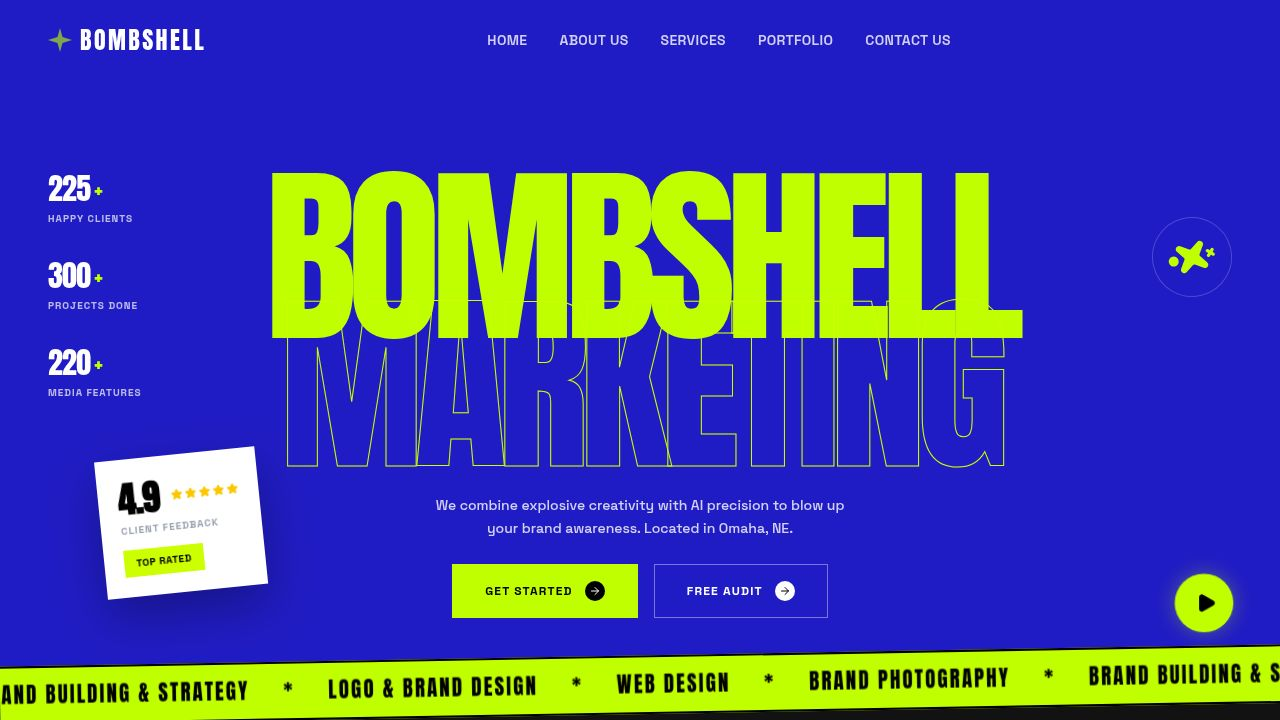
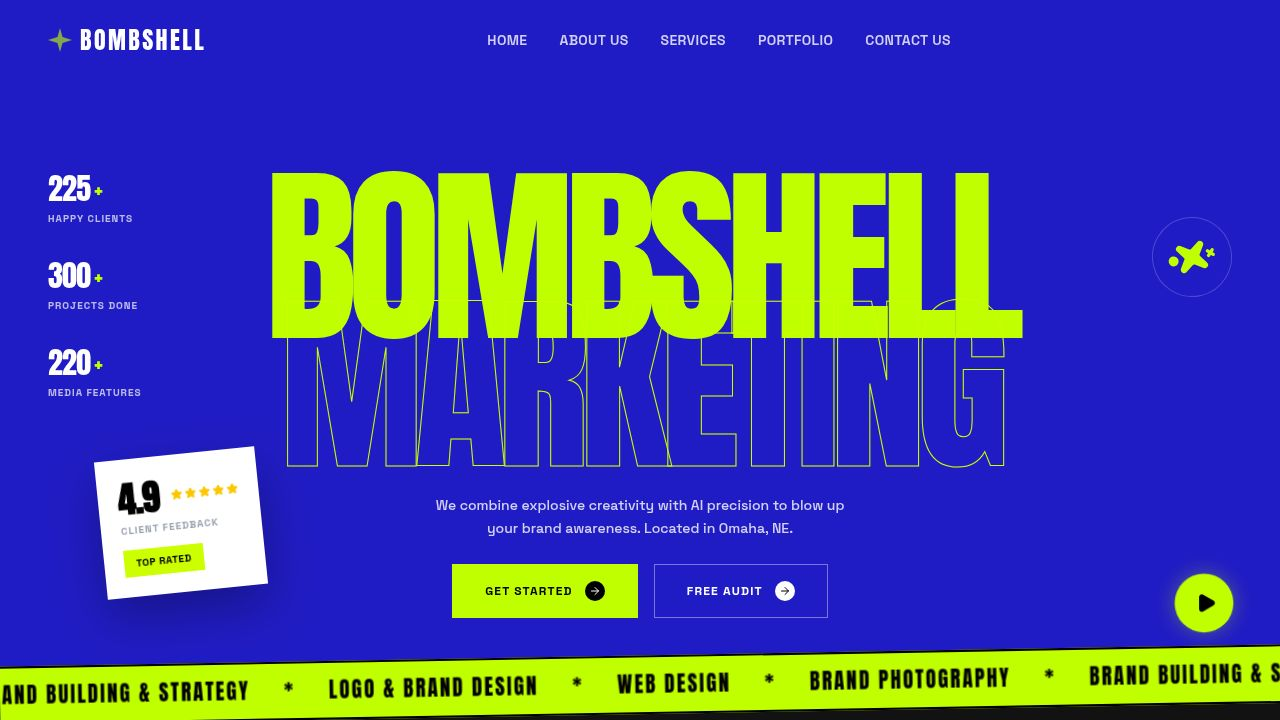
Add a dedicated services page and update navigation links
Create a new `/services` route and page component, and update the navigation to link to the new page.

Replit-Commit-Author: Agent
Replit-Commit-Session-Id: b97b545a-2953-4744-8807-01dbd9bc97d5
Replit-Commit-Checkpoint-Type: full_checkpoint
Replit-Commit-Event-Id: a2816f02-5160-42d0-ae93-49eef49e8268
Replit-Commit-Screenshot-Url: https://storage.googleapis.com/screenshot-production-us-central1/cacd662f-1fbf-427a-8dde-dff8a0747f32/b97b545a-2953-4744-8807-01dbd9bc97d5/KA6MkcP
Replit-Helium-Checkpoint-Created: true

diff --git a/client/src/pages/Services.tsx b/client/src/pages/Services.tsx
@@ -1,0 +1,182 @@
+import { Link } from "wouter";
+import { ArrowUpRight, Palette, Globe, Target, Camera, Sparkles, Layers } from "lucide-react";
+import { Navigation } from "@/components/Navigation";
+import { Footer } from "@/components/Footer";
+
+const services = [
+  {
+    icon: Palette,
+    title: "Brand Building & Strategy",
+    description: "We forge identities that hit like a shockwave. Strategic positioning meets visual dominance to create memorable brand experiences.",
+    link: "https://bombshellaimarketing.com/contact",
+    highlight: false
+  },
+  {
+    icon: Globe,
+    title: "Web Design & Development",
+    description: "Websites that don't just function—they perform. High-octane user experiences built with modern technology and stunning visuals.",
+    link: "https://bombshellaimarketing.com/contact",
+    highlight: true
+  },
+  {
+    icon: Target,
+    title: "Digital Marketing Strategy",
+    description: "AI-powered marketing strategies that target your ideal audience with precision. Data-driven campaigns that convert.",
+    link: "https://bombshellaimarketing.com/contact",
+    highlight: false
+  },
+  {
+    icon: Layers,
+    title: "Logo & Brand Design",
+    description: "Visual identities that sear into memory. Logos, systems, and guidelines that command attention and build recognition.",
+    link: "https://bombshellaimarketing.com/contact",
+    highlight: false
+  },
+  {
+    icon: Sparkles,
+    title: "Content Creation Solutions",
+    description: "Compelling content that tells your story. From copywriting to social media, we create content that engages and converts.",
+    link: "https://bombshellaimarketing.com/contact",
+    highlight: true
+  },
+  {
+    icon: Camera,
+    title: "Brand Photography",
+    description: "Capture the raw energy of your brand. Professional shots that tell your story instantly and elevate your visual presence.",
+    link: "https://bombshellaimarketing.com/contact",
+    highlight: false
+  }
+];
+
+export default function ServicesPage() {
+  return (
+    <div className="min-h-screen bg-[#f0f0f0]">
+      <Navigation />
+      
+      {/* Hero Section */}
+      <section className="bg-[#201cc5] pt-32 pb-20 relative overflow-hidden">
+        <div className="absolute inset-0 opacity-20 pointer-events-none mix-blend-overlay" 
+             style={{ backgroundImage: 'url("https://www.transparenttextures.com/patterns/noise.png")' }}>
+        </div>
+        <div className="container mx-auto px-4 text-center relative z-10">
+          <h1 className="text-5xl md:text-7xl font-display text-white uppercase mb-6">
+            Solutions You Need
+          </h1>
+          <div className="flex items-center justify-center gap-2 text-white/70 text-sm uppercase tracking-widest">
+            <Link href="/" className="hover:text-primary transition-colors">Home</Link>
+            <span>/</span>
+            <span className="text-white">Our Services</span>
+          </div>
+        </div>
+      </section>
+
+      {/* Stats Section */}
+      <section className="bg-[#e8e8e8] py-20 relative">
+        <div className="absolute inset-0 opacity-30 pointer-events-none mix-blend-multiply" 
+             style={{ backgroundImage: 'url("https://www.transparenttextures.com/patterns/noise.png")' }}>
+        </div>
+        <div className="container mx-auto px-4 relative z-10">
+          <div className="flex flex-col md:flex-row justify-between items-start md:items-center gap-8 mb-16">
+            <div>
+              <div className="flex items-center gap-2 mb-4">
+                <span className="text-primary text-xl">✦</span>
+                <span className="text-black/60 uppercase tracking-widest text-xs font-bold">Simplify Your Goals</span>
+              </div>
+              <h2 className="text-4xl md:text-6xl font-display text-black uppercase leading-[0.9]">
+                Empowering Brands<br />With Creativity
+              </h2>
+            </div>
+            
+            <div className="flex gap-12">
+              <div className="text-center">
+                <div className="flex items-center gap-1">
+                  <Sparkles className="w-6 h-6 text-primary fill-primary" />
+                  <span className="text-5xl font-display text-black">300</span>
+                  <span className="text-primary text-3xl font-display">+</span>
+                </div>
+                <p className="text-[10px] font-bold uppercase tracking-widest text-black/50 mt-2">Successful Projects</p>
+              </div>
+              <div className="text-center">
+                <div className="flex items-center gap-1">
+                  <Sparkles className="w-6 h-6 text-primary fill-primary" />
+                  <span className="text-5xl font-display text-black">200</span>
+                  <span className="text-primary text-3xl font-display">+</span>
+                </div>
+                <p className="text-[10px] font-bold uppercase tracking-widest text-black/50 mt-2">Brands Grow Globally</p>
+              </div>
+            </div>
+          </div>
+
+          {/* Services Grid */}
+          <div className="grid grid-cols-1 md:grid-cols-2 lg:grid-cols-3 gap-6">
+            {services.map((service, index) => {
+              const IconComponent = service.icon;
+              return (
+                <a 
+                  key={index}
+                  href={service.link}
+                  className={`group relative p-8 min-h-[280px] flex flex-col justify-between hover:translate-y-[-8px] transition-transform duration-300 ${
+                    service.highlight 
+                      ? 'bg-[#201cc5]' 
+                      : 'bg-[#1a1a2e]'
+                  }`}
+                >
+                  <div className="flex justify-between items-start mb-6">
+                    <div className="w-14 h-14 rounded-lg bg-primary/20 border border-primary flex items-center justify-center">
+                      <IconComponent className="w-7 h-7 text-primary" />
+                    </div>
+                    <div className="w-10 h-10 rounded-full bg-primary text-black flex items-center justify-center group-hover:scale-110 transition-transform">
+                      <ArrowUpRight size={20} />
+                    </div>
+                  </div>
+
+                  <div>
+                    <h3 className="text-xl font-display uppercase text-white mb-4 leading-tight">
+                      {service.title}
+                    </h3>
+                    <p className="text-sm leading-relaxed text-white/60">
+                      {service.description}
+                    </p>
+                  </div>
+                </a>
+              );
+            })}
+          </div>
+        </div>
+      </section>
+
+      {/* CTA Section */}
+      <section className="bg-[#201cc5] py-20 relative overflow-hidden">
+        <div className="absolute inset-0 opacity-20 pointer-events-none mix-blend-overlay" 
+             style={{ backgroundImage: 'url("https://www.transparenttextures.com/patterns/noise.png")' }}>
+        </div>
+        <div className="container mx-auto px-4 text-center relative z-10">
+          <h2 className="text-4xl md:text-6xl font-display text-white uppercase mb-6">
+            Ready to Get Started?
+          </h2>
+          <p className="text-white/70 max-w-2xl mx-auto mb-8">
+            Let's create something explosive together. Get in touch to discuss your project and see how we can help your brand stand out.
+          </p>
+          <div className="flex flex-col md:flex-row gap-4 justify-center">
+            <a 
+              href="https://bombshellaimarketing.com/contact" 
+              className="group px-8 py-4 bg-primary text-black border border-primary hover:bg-white hover:text-black hover:border-white transition-all text-xs font-bold uppercase tracking-widest flex items-center justify-center gap-3"
+            >
+              <span>Contact Us</span>
+              <ArrowUpRight className="w-4 h-4" />
+            </a>
+            <a 
+              href="https://bombshellaimarketing.com/audit" 
+              className="group px-8 py-4 border border-white/40 hover:bg-primary hover:text-black hover:border-primary transition-all text-white text-xs font-bold uppercase tracking-widest flex items-center justify-center gap-3"
+            >
+              <span>Free Audit</span>
+              <ArrowUpRight className="w-4 h-4" />
+            </a>
+          </div>
+        </div>
+      </section>
+
+      <Footer />
+    </div>
+  );
+}

diff --git a/client/src/App.tsx b/client/src/App.tsx
@@ -5,11 +5,13 @@ import { Toaster } from "@/components/ui/toaster";
 import { TooltipProvider } from "@/components/ui/tooltip";
 import NotFound from "@/pages/not-found";
 import Home from "@/pages/Home";
+import ServicesPage from "@/pages/Services";
 
 function Router() {
   return (
     <Switch>
       <Route path="/" component={Home} />
+      <Route path="/services" component={ServicesPage} />
       <Route component={NotFound} />
     </Switch>
   );

diff --git a/client/src/components/Navigation.tsx b/client/src/components/Navigation.tsx
@@ -10,7 +10,7 @@ export function Navigation() {
   const navLinks = [
     { name: "Home", href: "/" },
     { name: "About Us", href: "#team" },
-    { name: "Services", href: "#services" },
+    { name: "Services", href: "/services" },
     { name: "Portfolio", href: "#portfolio" },
     { name: "Contact Us", href: "https://bombshellaimarketing.com/contact" },
   ];
